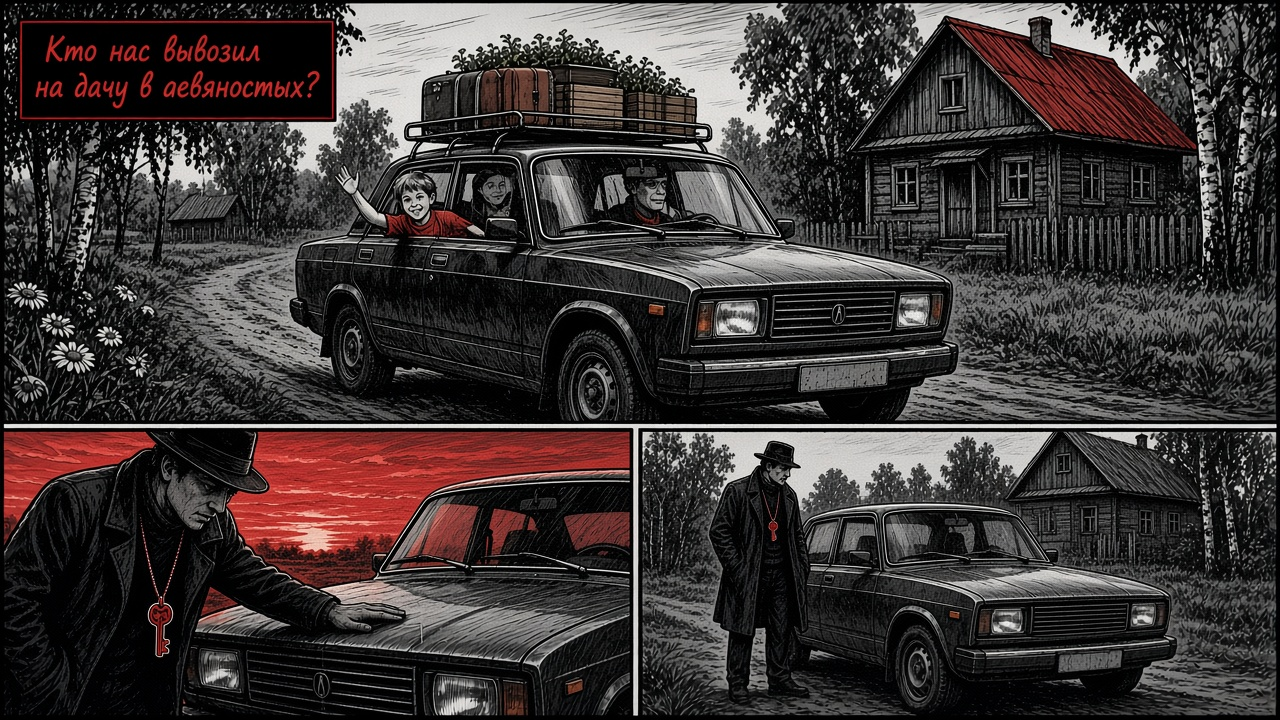
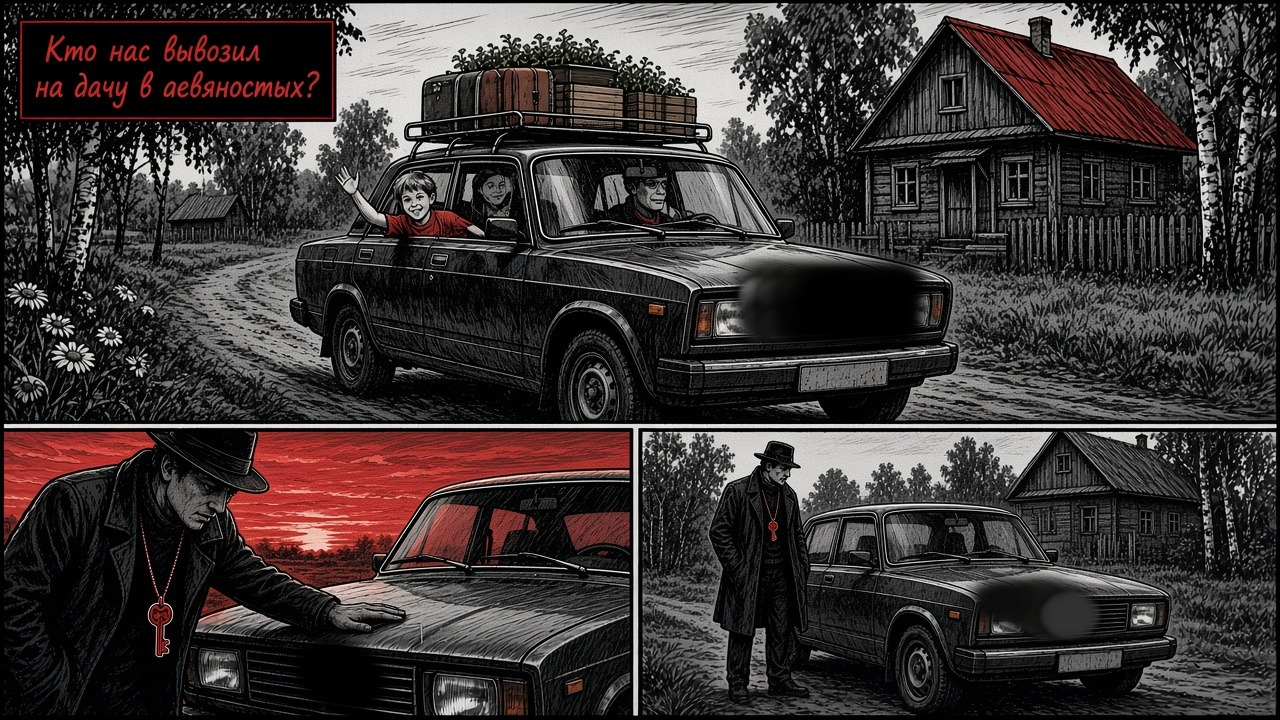
Fix 23: paint over grille badges on Bridge (dacha) page

Changed region(s): [[0.5625, 0.3361, 0.75, 0.4889], [0.75, 0.7944, 0.875, 0.8861], [0.2188, 0.8861, 0.3125, 0.9778]]

diff --git a/23_mozhem-a-zachem/README.md b/23_mozhem-a-zachem/README.md
@@ -7,7 +7,7 @@
 - **Музыка и текст** — Андрей, Suno (текст — [lyrics.txt](lyrics.txt)).
 - **6 страниц комикса** сгенерированы ИИ — в папке [pages/](pages/).
 - **Клип** 1280×720, 25 к/с, 2:44: страницы с мягкой «камерой» сменяются в такт куплетам и припевам, внизу неоновый эквалайзер без свечения.
-- **Персонажи вымышленные**, без логотипов и реальных брендов. Эмблема на решётке «жигуля» замазана.
+- **Персонажи вымышленные**, без логотипов и реальных брендов. Эмблемы на решётке «жигуля» замазаны (в т.ч. на странице бриджа / дача).
 - В этой записи после 2-го куплета сразу идёт бридж (средний припев пропущен), поэтому страницы идут: куплет → припев → куплет → бридж → припев → финал.
 
 ## Тайминг страниц
